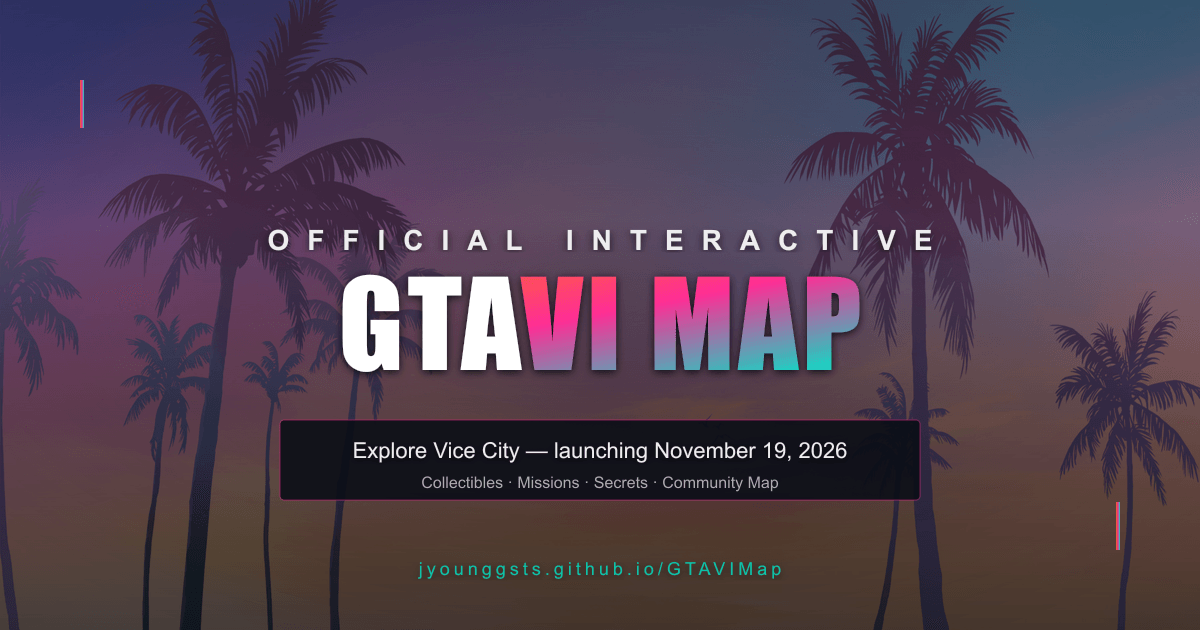
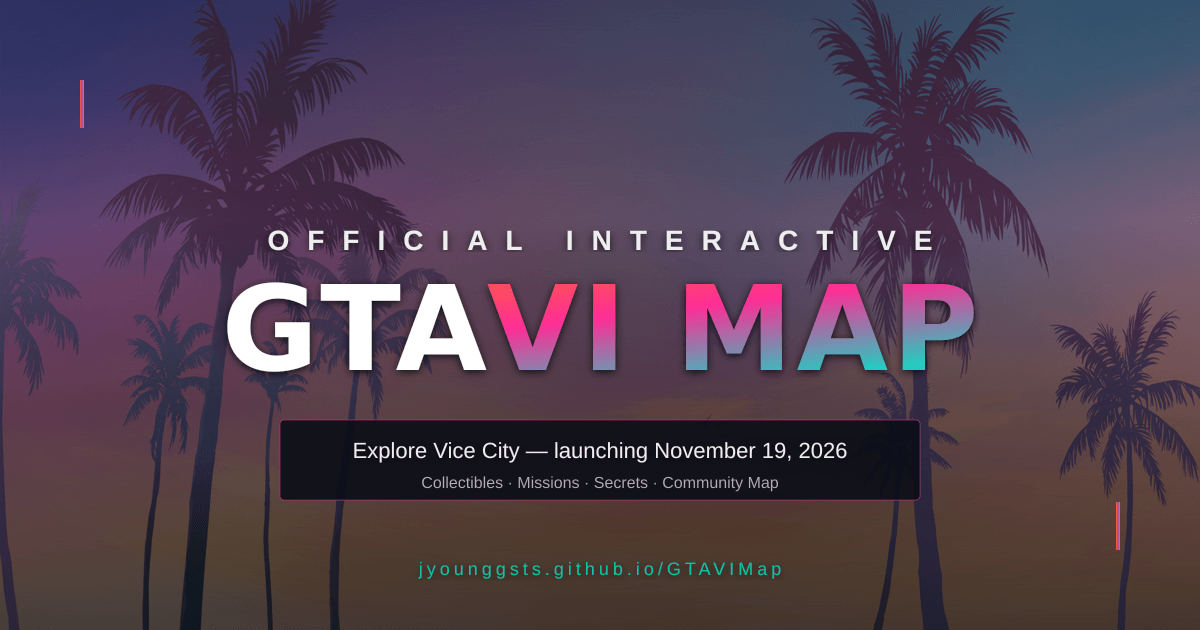
chore: rebuild docs for GitHub Pages

diff --git a/docs/index.html b/docs/index.html
@@ -35,6 +35,6 @@
     <link rel="stylesheet" crossorigin href="/GTAVIMap/assets/index-DQuAR2bh.css">
   </head>
   <body>
-    <div id="app"></div>
+    <div id="app"></div>
   </body>
 </html>